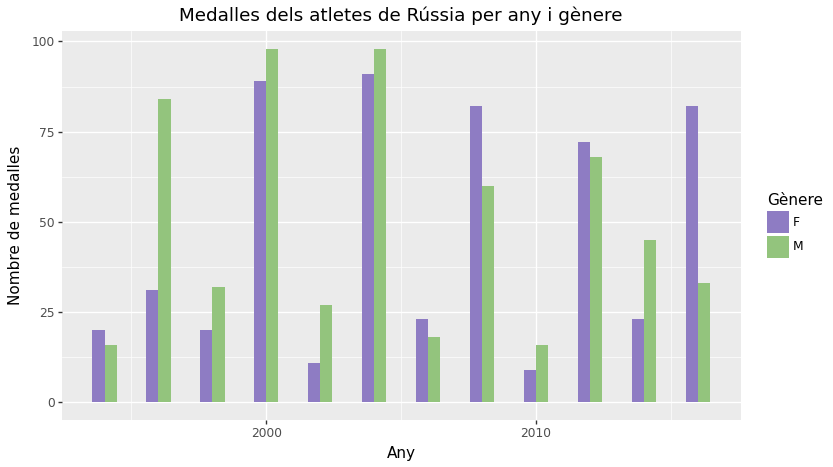
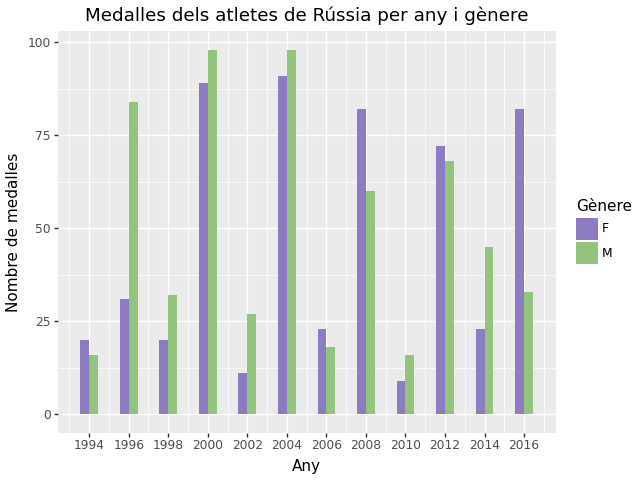
ud3: exercicis plotnine russia anys

diff --git a/docs/files/ud3/exercises/exercise2.py b/docs/files/ud3/exercises/exercise2.py
@@ -82,6 +82,9 @@ plot = (
         y='Nombre de medalles',
         fill='Gènere'
     )
+    + scale_x_continuous(
+        breaks=sorted(df['Year'].unique()),
+    )
     + scale_fill_manual(
         values={
             'M': '#93c47d',
